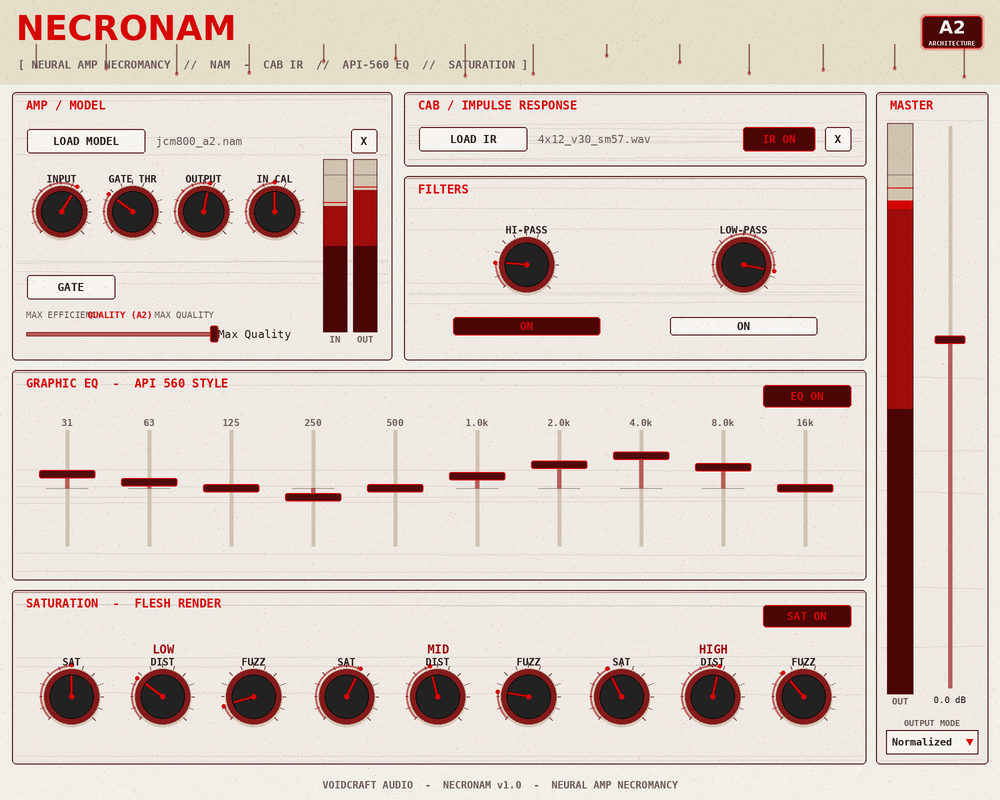
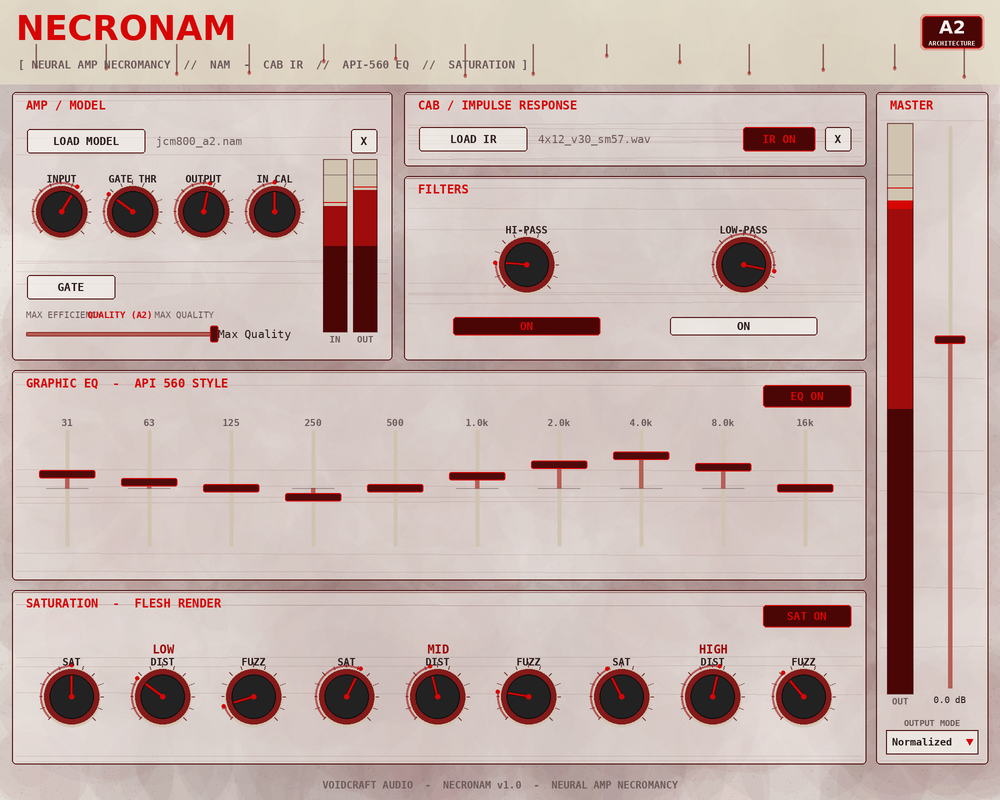
Add aged parchment/marble texture to match target light look
The flat bone fill read as plasticky. Add a cached procedural parchment
texture (mottled rust/bone staining + meandering marble veins + fine flecks)
generated at window size and painted as the editor background; rebuilt on
resize. Panels and the header are now translucent so the texture shows through
(panels still read brighter than the gaps), giving the unified aged-marble look.

Re-render NECRONAM/preview.png to match.

Claude-Session: https://claude.ai/code/session_01FJi3sQMpMM9estjZNdFp5K

diff --git a/NECRONAM/Source/PluginEditor.cpp b/NECRONAM/Source/PluginEditor.cpp
@@ -209,14 +209,64 @@ void NecronamAudioProcessorEditor::timerCallback()
 }
 
 // ===========================================================================
+void NecronamAudioProcessorEditor::buildBackground()
+{
+    const int w = getWidth(), h = getHeight();
+    if (w <= 0 || h <= 0)
+        return;
+
+    mBackground = juce::Image (juce::Image::RGB, w, h, false);
+    juce::Graphics g (mBackground);
+    g.fillAll (c (COL_BACKGROUND));
+
+    juce::Random rng (0x804E04);
+
+    // Soft mottled staining (low-frequency blobs).
+    for (int i = 0; i < (w * h) / 1400; ++i)
+    {
+        const float x = rng.nextFloat() * w;
+        const float y = rng.nextFloat() * h;
+        const float r = 18.0f + rng.nextFloat() * 130.0f;
+        auto col = rng.nextBool() ? c (COL_RUST) : c (COL_BONE_DIM);
+        g.setColour (col.withAlpha (0.02f + rng.nextFloat() * 0.04f));
+        g.fillEllipse (x - r, y - r, r * 2.0f, r * 2.0f);
+    }
+
+    // Marble veins (meandering quadratic strokes).
+    for (int i = 0; i < (w + h) / 16; ++i)
+    {
+        juce::Path p;
+        float x = rng.nextFloat() * w, y = rng.nextFloat() * h;
+        p.startNewSubPath (x, y);
+        const int segs = 3 + rng.nextInt (4);
+        for (int s = 0; s < segs; ++s)
+        {
+            const float nx = x + rng.nextFloat() * 150.0f - 75.0f;
+            const float ny = y + rng.nextFloat() * 150.0f - 75.0f;
+            p.quadraticTo ((x + nx) * 0.5f + rng.nextFloat() * 40.0f - 20.0f,
+                           (y + ny) * 0.5f + rng.nextFloat() * 40.0f - 20.0f, nx, ny);
+            x = nx; y = ny;
+        }
+        g.setColour (c (COL_BONE_DIM).withAlpha (0.04f + rng.nextFloat() * 0.05f));
+        g.strokePath (p, juce::PathStrokeType (0.8f + rng.nextFloat() * 0.9f));
+    }
+
+    // Fine flecks on top.
+    HorrorLookAndFeel::drawGrainTexture (g, mBackground.getBounds(), 0.05f);
+}
+
 void NecronamAudioProcessorEditor::paint (juce::Graphics& g)
 {
     const auto w = getWidth();
-    g.fillAll (c (COL_BACKGROUND));
 
-    // Header.
+    if (mBackground.isValid())
+        g.drawImageAt (mBackground, 0, 0);
+    else
+        g.fillAll (c (COL_BACKGROUND));
+
+    // Header (translucent so the parchment shows through).
     auto header = juce::Rectangle<int> (0, 0, w, 84);
-    g.setColour (c (COL_HEADER_BG));
+    g.setColour (c (COL_HEADER_BG).withAlpha (0.78f));
     g.fillRect (header);
     HorrorLookAndFeel::drawBloodDrips (g, header.toFloat().removeFromBottom (40.0f));
 
@@ -319,6 +369,8 @@ void NecronamAudioProcessorEditor::paint (juce::Graphics& g)
 // ===========================================================================
 void NecronamAudioProcessorEditor::resized()
 {
+    buildBackground();                       // regenerate parchment for new size
+
     auto area = getLocalBounds();
     area.removeFromTop (84);                 // header
     area.removeFromBottom (28);              // footer

diff --git a/NECRONAM/Source/PluginEditor.h b/NECRONAM/Source/PluginEditor.h
@@ -26,6 +26,7 @@ private:
     using ComboAttach  = juce::AudioProcessorValueTreeState::ComboBoxAttachment;
 
     void timerCallback() override;
+    void buildBackground();   // procedural aged-parchment / marble texture
 
     juce::Slider& addKnob (const juce::String& paramID, const juce::String& labelText);
     juce::Slider& addVSlider (const juce::String& paramID, const juce::String& labelText);
@@ -76,6 +77,8 @@ private:
     // Section rectangles (filled in resized(), painted in paint()).
     juce::Rectangle<int> ampArea, cabArea, filterArea, eqArea, satArea, masterArea;
     juce::Rectangle<int> qualityLabelArea;
+
+    juce::Image mBackground;   // cached parchment texture, rebuilt on resize
 
     std::unique_ptr<juce::FileChooser> chooser;
 

diff --git a/NECRONAM/Source/HorrorLookAndFeel.cpp b/NECRONAM/Source/HorrorLookAndFeel.cpp
@@ -236,7 +236,9 @@ void HorrorLookAndFeel::drawBloodDrips (juce::Graphics& g, juce::Rectangle<float
 
 void HorrorLookAndFeel::drawPanelBackground (juce::Graphics& g, juce::Rectangle<float> bounds)
 {
-    g.setColour (c (COL_PANEL_BG));
+    // Translucent bone so the parchment texture behind shows through, while the
+    // panel still reads brighter/cleaner than the gaps between panels.
+    g.setColour (c (COL_PANEL_BG).withAlpha (0.62f));
     g.fillRoundedRectangle (bounds, 4.0f);
 
     // Vignette - transitioned from black to a deep, bruising red-brown blend
